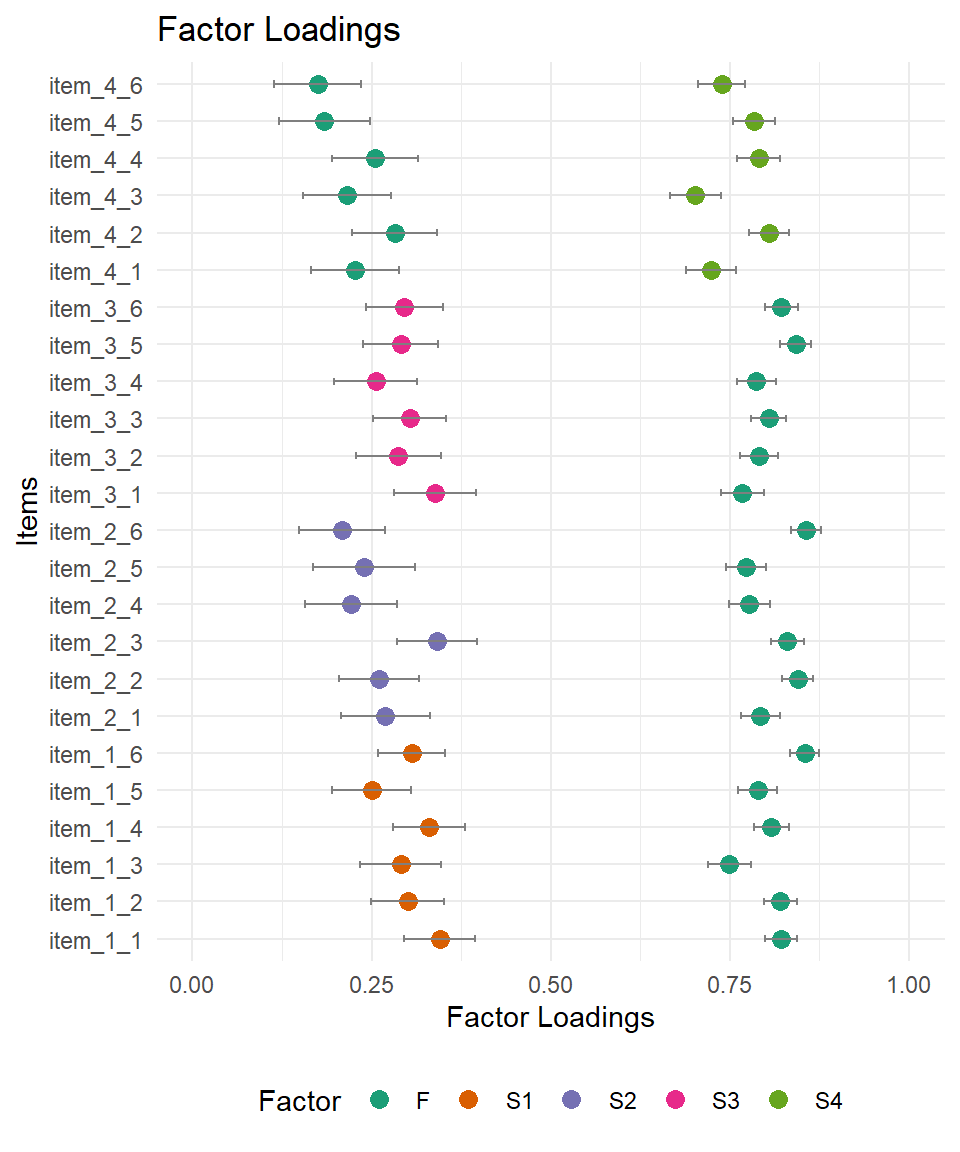
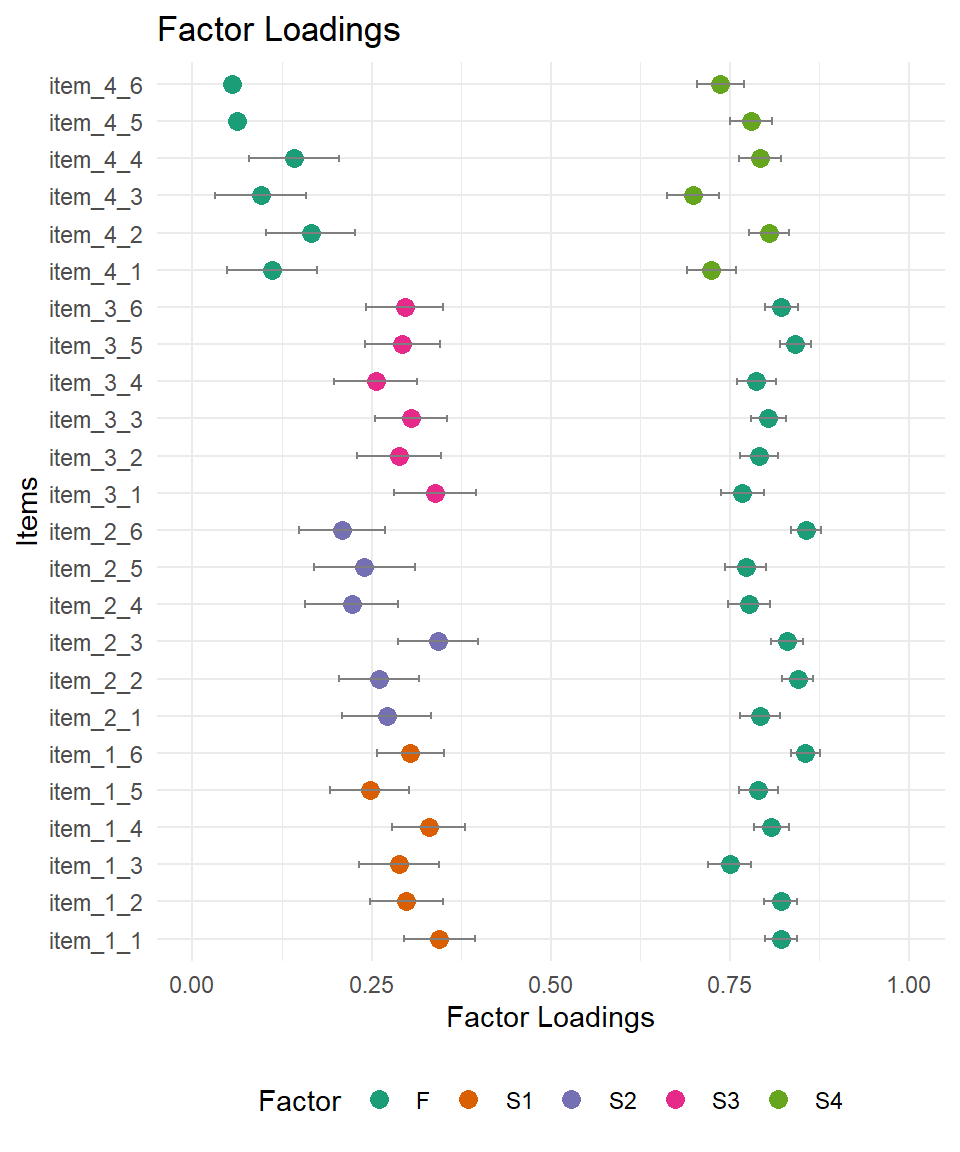
Built site for gh-pages

diff --git a/index.html b/index.html
@@ -1074,7 +1074,7 @@ result_ideal$fit_bifactor |  0.616   | 1.000 | 1.000 | 0.000 | [0.000, 0.012] | 
 <span id="cb14-6"><a href=""></a>  <span class="at">loadingSpecific =</span> <span class="fl">0.3</span>,</span>
 <span id="cb14-7"><a href=""></a>  <span class="at">fluctuation =</span> <span class="fl">0.05</span>,</span>
 <span id="cb14-8"><a href=""></a>  <span class="at">type_problematic =</span> <span class="st">"1f"</span>,</span>
-<span id="cb14-9"><a href=""></a>  <span class="at">mod_gen_factor =</span> <span class="fl">0.3</span>,</span>
+<span id="cb14-9"><a href=""></a>  <span class="at">mod_gen_factor =</span> <span class="fl">0.15</span>,</span>
 <span id="cb14-10"><a href=""></a>  <span class="at">mod_spec_factor =</span> <span class="fl">2.5</span>,</span>
 <span id="cb14-11"><a href=""></a>  <span class="at">estimator =</span> <span class="st">"MLR"</span></span>
 <span id="cb14-12"><a href=""></a>)</span></code><button title="Copiar al portapapeles" class="code-copy-button"><i class="bi"></i></button></pre></div>
@@ -1116,49 +1116,49 @@ result_ideal$fit_bifactor |  0.616   | 1.000 | 1.000 | 0.000 | [0.000, 0.012] | 
 <div class="cell-output cell-output-stdout">
 <pre><code>$ModelLevelIndices
      ECV.F        PUC    Omega.F   OmegaH.F       ARPB 
-0.70924504 0.78260870 0.97564562 0.87341158 0.03030282 
+0.70564532 0.78260870 0.97275756 0.86241389 0.03276995 
 
 $FactorLevelIndices
-      ECV_SS     ECV_SG     ECV_GS     Omega     OmegaH         H        FD
-F  0.7092450 0.70924504 0.70924504 0.9756456 0.87341158 0.9723392 0.9706618
-S1 0.1249617 0.03289755 0.87503826 0.9459429 0.11735934 0.3822071 0.7117094
-S2 0.0931025 0.02395440 0.90689750 0.9412297 0.08555391 0.3059599 0.6461961
-S3 0.1199021 0.03099282 0.88009787 0.9423043 0.11240116 0.3665504 0.6916047
-S4 0.9182949 0.20291019 0.08170505 0.9088727 0.83633782 0.8930512 0.9498901
+       ECV_SS     ECV_SG     ECV_GS     Omega     OmegaH         H        FD
+F  0.70564532 0.70564532 0.70564532 0.9727576 0.86241389 0.9721486 0.9705498
+S1 0.12377861 0.03305574 0.87622139 0.9459541 0.11618284 0.3798054 0.7092911
+S2 0.09359639 0.02442729 0.90640361 0.9412326 0.08600959 0.3071786 0.6467970
+S3 0.12061010 0.03162232 0.87938990 0.9423015 0.11307017 0.3680375 0.6925122
+S4 0.97843528 0.20524934 0.02156472 0.8939206 0.87694498 0.8925204 0.9461048
 
 $ItemLevelIndices
-               IECV  RelParBias
-item_1_1 0.85009284 0.028432228
-item_1_2 0.88169397 0.023089589
-item_1_3 0.86928444 0.027308969
-item_1_4 0.85675198 0.028556486
-item_1_5 0.90870438 0.017941978
-item_1_6 0.88631630 0.020075065
-item_2_1 0.89637677 0.013880877
-item_2_2 0.91353256 0.008851991
-item_2_3 0.85503152 0.016989561
-item_2_4 0.92492100 0.009600847
-item_2_5 0.91226530 0.010661662
-item_2_6 0.94388272 0.003058420
-item_3_1 0.83728707 0.026822345
-item_3_2 0.88324132 0.019330769
-item_3_3 0.87527953 0.021292779
-item_3_4 0.90444452 0.014253372
-item_3_5 0.89339748 0.015828147
-item_3_6 0.88565039 0.018263790
-item_4_1 0.08932164 0.055573813
-item_4_2 0.10964869 0.045674689
-item_4_3 0.08602536 0.065705580
-item_4_4 0.09423379 0.055333172
-item_4_5 0.05222418 0.092576803
-item_4_6 0.05293116 0.088164747</code></pre>
+                IECV  RelParBias
+item_1_1 0.850379317 0.028620201
+item_1_2 0.883049091 0.023549057
+item_1_3 0.871138676 0.027768299
+item_1_4 0.857136869 0.028773862
+item_1_5 0.910633346 0.018337847
+item_1_6 0.887794846 0.020465061
+item_2_1 0.895192791 0.014109372
+item_2_2 0.913106323 0.009112679
+item_2_3 0.854496570 0.017244107
+item_2_4 0.924350754 0.009792271
+item_2_5 0.912127653 0.010912886
+item_2_6 0.943746537 0.003339663
+item_3_1 0.837317659 0.027392299
+item_3_2 0.882737169 0.019666295
+item_3_3 0.873845702 0.021457371
+item_3_4 0.904316752 0.014807362
+item_3_5 0.891841432 0.015901516
+item_3_6 0.885129012 0.018537898
+item_4_1 0.023031621 0.043132872
+item_4_2 0.040442512 0.027082611
+item_4_3 0.018229231 0.070660735
+item_4_4 0.031037736 0.040020457
+item_4_5 0.006400103 0.140046567
+item_4_6 0.005574720 0.135747559</code></pre>
 </div>
 </div>
 </section><section id="desajuste-del-unidimensional" class="slide level2"><h2>Desajuste del unidimensional</h2>
 <div class="cell">
 <div class="sourceCode cell-code" id="cb17"><pre class="sourceCode numberSource r number-lines code-with-copy"><code class="sourceCode r"><span id="cb17-1"><a href=""></a><span class="fu">summary</span>(result_1f<span class="sc">$</span>fit_uni, <span class="at">fit.measures =</span> <span class="cn">TRUE</span>, <span class="at">standardized =</span> <span class="cn">TRUE</span>)</span></code><button title="Copiar al portapapeles" class="code-copy-button"><i class="bi"></i></button></pre></div>
 <div class="cell-output cell-output-stdout">
-<pre><code>lavaan 0.6-19 ended normally after 29 iterations
+<pre><code>lavaan 0.6-19 ended normally after 27 iterations
 
   Estimator                                         ML
   Optimization method                           NLMINB
@@ -1168,7 +1168,7 @@ item_4_6 0.05293116 0.088164747</code></pre>
 
 Model Test User Model:
                                               Standard      Scaled
-  Test Statistic                              4892.157    4893.085
+  Test Statistic                              4604.696    4604.680
   Degrees of freedom                               252         252
   P-value (Chi-square)                           0.000       0.000
   Scaling correction factor                                  1.000
@@ -1176,43 +1176,43 @@ Model Test User Model:
 
 Model Test Baseline Model:
 
-  Test statistic                             22031.913   21973.353
+  Test statistic                             21500.542   21446.107
   Degrees of freedom                               276         276
   P-value                                        0.000       0.000
   Scaling correction factor                                  1.003
 
 User Model versus Baseline Model:
 
-  Comparative Fit Index (CFI)                    0.787       0.786
-  Tucker-Lewis Index (TLI)                       0.766       0.766
+  Comparative Fit Index (CFI)                    0.795       0.794
+  Tucker-Lewis Index (TLI)                       0.775       0.775
                                                                   
-  Robust Comparative Fit Index (CFI)                         0.787
-  Robust Tucker-Lewis Index (TLI)                            0.766
+  Robust Comparative Fit Index (CFI)                         0.795
+  Robust Tucker-Lewis Index (TLI)                            0.775
 
 Loglikelihood and Information Criteria:
 
-  Loglikelihood user model (H0)             -25417.778  -25417.778
-  Scaling correction factor                                  1.014
+  Loglikelihood user model (H0)             -25548.386  -25548.386
+  Scaling correction factor                                  1.013
       for the MLR correction                                      
-  Loglikelihood unrestricted model (H1)     -22971.700  -22971.700
+  Loglikelihood unrestricted model (H1)     -23246.038  -23246.038
   Scaling correction factor                                  1.002
       for the MLR correction                                      
                                                                   
-  Akaike (AIC)                               50931.557   50931.557
-  Bayesian (BIC)                             51167.129   51167.129
-  Sample-size adjusted Bayesian (SABIC)      51014.678   51014.678
+  Akaike (AIC)                               51192.772   51192.772
+  Bayesian (BIC)                             51428.344   51428.344
+  Sample-size adjusted Bayesian (SABIC)      51275.894   51275.894
 
 Root Mean Square Error of Approximation:
 
-  RMSEA                                          0.136       0.136
-  90 Percent confidence interval - lower         0.132       0.132
-  90 Percent confidence interval - upper         0.139       0.139
+  RMSEA                                          0.131       0.131
+  90 Percent confidence interval - lower         0.128       0.128
+  90 Percent confidence interval - upper         0.135       0.135
   P-value H_0: RMSEA &lt;= 0.050                    0.000       0.000
   P-value H_0: RMSEA &gt;= 0.080                    1.000       1.000
                                                                   
-  Robust RMSEA                                               0.136
-  90 Percent confidence interval - lower                     0.132
-  90 Percent confidence interval - upper                     0.139
+  Robust RMSEA                                               0.131
+  90 Percent confidence interval - lower                     0.128
+  90 Percent confidence interval - upper                     0.135
   P-value H_0: Robust RMSEA &lt;= 0.050                         0.000
   P-value H_0: Robust RMSEA &gt;= 0.080                         1.000
 
@@ -1229,57 +1229,57 @@ Parameter Estimates:
 Latent Variables:
                    Estimate  Std.Err  z-value  P(&gt;|z|)   Std.lv  Std.all
   U =~                                                                  
-    item_1_1          0.838    0.026   31.796    0.000    0.838    0.844
-    item_1_2          0.816    0.026   31.610    0.000    0.816    0.839
-    item_1_3          0.759    0.027   28.312    0.000    0.759    0.769
-    item_1_4          0.835    0.026   32.032    0.000    0.835    0.831
-    item_1_5          0.795    0.026   30.803    0.000    0.795    0.803
-    item_1_6          0.870    0.025   34.254    0.000    0.870    0.871
-    item_2_1          0.778    0.025   31.500    0.000    0.778    0.803
-    item_2_2          0.850    0.027   31.895    0.000    0.850    0.852
-    item_2_3          0.861    0.026   32.865    0.000    0.861    0.844
-    item_2_4          0.760    0.026   29.660    0.000    0.760    0.784
-    item_2_5          0.792    0.026   29.983    0.000    0.792    0.780
-    item_2_6          0.849    0.025   33.707    0.000    0.849    0.858
-    item_3_1          0.786    0.027   29.024    0.000    0.786    0.788
-    item_3_2          0.798    0.027   29.228    0.000    0.798    0.806
-    item_3_3          0.820    0.025   32.663    0.000    0.820    0.821
-    item_3_4          0.791    0.026   30.420    0.000    0.791    0.798
-    item_3_5          0.823    0.025   33.173    0.000    0.823    0.855
-    item_3_6          0.824    0.024   33.817    0.000    0.824    0.837
-    item_4_1          0.246    0.034    7.243    0.000    0.246    0.239
-    item_4_2          0.301    0.034    8.975    0.000    0.301    0.295
-    item_4_3          0.231    0.033    6.969    0.000    0.231    0.230
-    item_4_4          0.281    0.035    7.978    0.000    0.281    0.269
-    item_4_5          0.201    0.034    5.887    0.000    0.201    0.201
-    item_4_6          0.192    0.033    5.870    0.000    0.192    0.190
+    item_1_1          0.839    0.026   31.801    0.000    0.839    0.845
+    item_1_2          0.817    0.026   31.640    0.000    0.817    0.840
+    item_1_3          0.760    0.027   28.381    0.000    0.760    0.771
+    item_1_4          0.836    0.026   32.030    0.000    0.836    0.831
+    item_1_5          0.796    0.026   30.902    0.000    0.796    0.804
+    item_1_6          0.871    0.025   34.318    0.000    0.871    0.873
+    item_2_1          0.778    0.025   31.468    0.000    0.778    0.803
+    item_2_2          0.850    0.027   31.886    0.000    0.850    0.852
+    item_2_3          0.861    0.026   32.849    0.000    0.861    0.844
+    item_2_4          0.760    0.026   29.659    0.000    0.760    0.784
+    item_2_5          0.792    0.026   29.977    0.000    0.792    0.781
+    item_2_6          0.849    0.025   33.720    0.000    0.849    0.859
+    item_3_1          0.787    0.027   29.055    0.000    0.787    0.788
+    item_3_2          0.798    0.027   29.210    0.000    0.798    0.806
+    item_3_3          0.820    0.025   32.629    0.000    0.820    0.821
+    item_3_4          0.791    0.026   30.442    0.000    0.791    0.798
+    item_3_5          0.823    0.025   33.135    0.000    0.823    0.855
+    item_3_6          0.824    0.024   33.830    0.000    0.824    0.837
+    item_4_1          0.119    0.034    3.495    0.000    0.119    0.116
+    item_4_2          0.173    0.034    5.120    0.000    0.173    0.170
+    item_4_3          0.103    0.034    3.059    0.002    0.103    0.102
+    item_4_4          0.154    0.036    4.334    0.000    0.154    0.147
+    item_4_5          0.071    0.034    2.074    0.038    0.071    0.071
+    item_4_6          0.064    0.033    1.925    0.054    0.064    0.063
 
 Variances:
                    Estimate  Std.Err  z-value  P(&gt;|z|)   Std.lv  Std.all
-   .item_1_1          0.283    0.013   21.932    0.000    0.283    0.287
-   .item_1_2          0.280    0.013   21.199    0.000    0.280    0.296
-   .item_1_3          0.397    0.019   21.022    0.000    0.397    0.408
-   .item_1_4          0.314    0.015   21.053    0.000    0.314    0.310
-   .item_1_5          0.348    0.017   20.597    0.000    0.348    0.355
-   .item_1_6          0.239    0.012   20.263    0.000    0.239    0.241
-   .item_2_1          0.332    0.017   19.149    0.000    0.332    0.355
-   .item_2_2          0.272    0.013   20.207    0.000    0.272    0.274
-   .item_2_3          0.299    0.014   21.598    0.000    0.299    0.288
-   .item_2_4          0.362    0.017   21.136    0.000    0.362    0.385
-   .item_2_5          0.403    0.018   22.133    0.000    0.403    0.391
-   .item_2_6          0.257    0.012   21.010    0.000    0.257    0.263
-   .item_3_1          0.377    0.019   19.808    0.000    0.377    0.379
-   .item_3_2          0.344    0.016   22.013    0.000    0.344    0.350
-   .item_3_3          0.325    0.015   21.500    0.000    0.325    0.326
-   .item_3_4          0.357    0.017   21.227    0.000    0.357    0.363
-   .item_3_5          0.249    0.012   20.700    0.000    0.249    0.269
-   .item_3_6          0.291    0.013   21.519    0.000    0.291    0.300
-   .item_4_1          0.999    0.046   21.817    0.000    0.999    0.943
-   .item_4_2          0.947    0.043   21.914    0.000    0.947    0.913
-   .item_4_3          0.960    0.044   21.916    0.000    0.960    0.947
-   .item_4_4          1.010    0.044   22.964    0.000    1.010    0.928
-   .item_4_5          0.959    0.044   21.898    0.000    0.959    0.960
-   .item_4_6          0.985    0.042   23.292    0.000    0.985    0.964
+   .item_1_1          0.282    0.013   21.970    0.000    0.282    0.286
+   .item_1_2          0.278    0.013   21.137    0.000    0.278    0.294
+   .item_1_3          0.395    0.019   20.939    0.000    0.395    0.406
+   .item_1_4          0.313    0.015   21.094    0.000    0.313    0.309
+   .item_1_5          0.346    0.017   20.607    0.000    0.346    0.353
+   .item_1_6          0.238    0.012   20.299    0.000    0.238    0.239
+   .item_2_1          0.333    0.017   19.125    0.000    0.333    0.355
+   .item_2_2          0.272    0.014   20.147    0.000    0.272    0.274
+   .item_2_3          0.299    0.014   21.626    0.000    0.299    0.288
+   .item_2_4          0.362    0.017   21.138    0.000    0.362    0.385
+   .item_2_5          0.403    0.018   22.085    0.000    0.403    0.391
+   .item_2_6          0.257    0.012   21.025    0.000    0.257    0.263
+   .item_3_1          0.377    0.019   19.757    0.000    0.377    0.378
+   .item_3_2          0.343    0.016   22.014    0.000    0.343    0.350
+   .item_3_3          0.326    0.015   21.486    0.000    0.326    0.327
+   .item_3_4          0.357    0.017   21.207    0.000    0.357    0.363
+   .item_3_5          0.250    0.012   20.702    0.000    0.250    0.270
+   .item_3_6          0.291    0.014   21.470    0.000    0.291    0.300
+   .item_4_1          1.039    0.047   21.938    0.000    1.039    0.987
+   .item_4_2          1.010    0.045   22.266    0.000    1.010    0.971
+   .item_4_3          1.011    0.046   22.108    0.000    1.011    0.990
+   .item_4_4          1.067    0.046   23.140    0.000    1.067    0.978
+   .item_4_5          0.999    0.045   22.085    0.000    0.999    0.995
+   .item_4_6          1.024    0.044   23.372    0.000    1.024    0.996
     U                 1.000                               1.000    1.000</code></pre>
 </div>
 </div>
